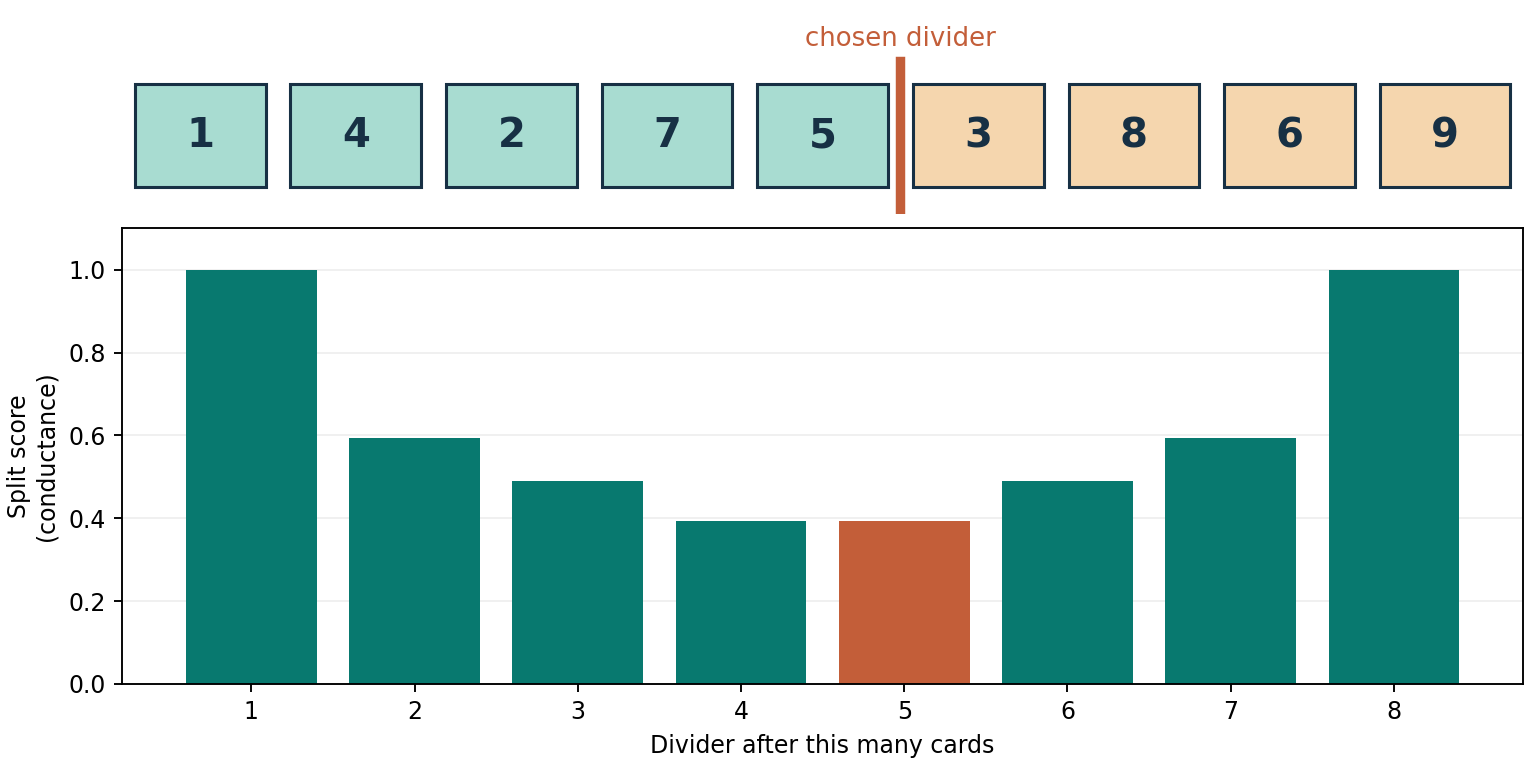
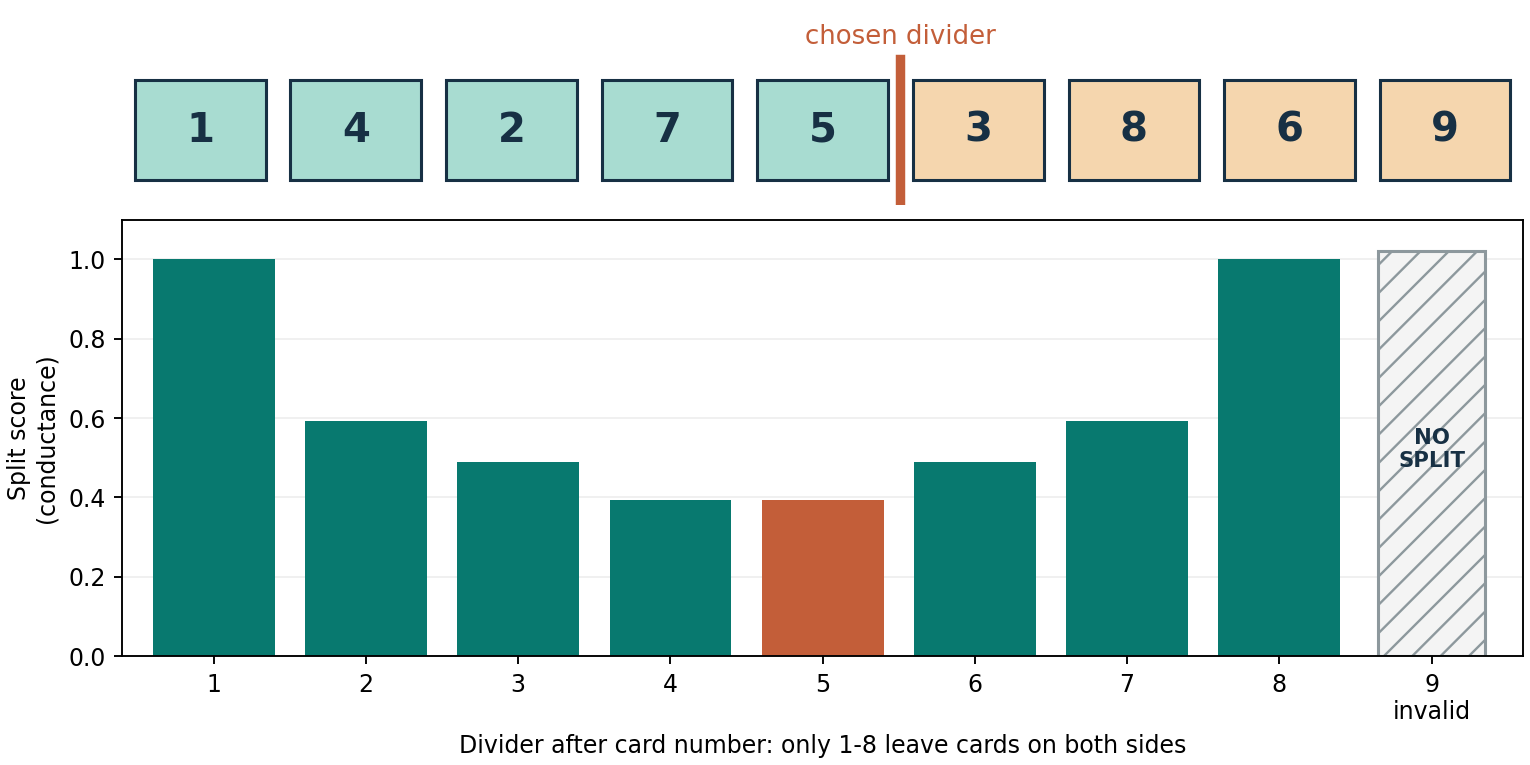
Clarify eight valid sweep splits for nine cells

diff --git a/scripts/build_experiment_checkpoints_guide.py b/scripts/build_experiment_checkpoints_guide.py
@@ -278,10 +278,15 @@ def sweep_chart(path: Path, row: dict):
     bars = fig.add_subplot(grid[1])
     bars.bar(range(1, 9), scores,
              color=[ORANGE if stop == 5 else TEAL for stop in range(1, 9)])
-    bars.set_xticks(range(1, 9))
-    bars.set_xlabel("Divider after this many cards")
+    bars.add_patch(Rectangle((8.65, 0), .7, 1.02, facecolor="#f4f4f4",
+                             edgecolor="#8d989d", hatch="//", linewidth=1.3))
+    bars.text(9, .52, "NO\nSPLIT", ha="center", va="center",
+              fontsize=9, fontweight="bold", color=NAVY)
+    bars.set_xticks(range(1, 10), [str(n) for n in range(1, 9)] + ["9\ninvalid"])
+    bars.set_xlabel("Divider after card number: only 1-8 leave cards on both sides")
     bars.set_ylabel("Split score\n(conductance)")
     bars.set_ylim(0, 1.1)
+    bars.set_xlim(.4, 9.6)
     bars.grid(axis="y", alpha=.2)
     bars.set_axisbelow(True)
     fig.savefig(path, dpi=170, facecolor="white")
@@ -563,15 +568,17 @@ def build_pdf(rows: list[dict]):
     y = label(pdf, "How does it work?", y) - 8
     y = body(pdf, "The graph's link strengths give the cells an order. For the smooth grid "
              "at alpha 3 it is 1, 4, 2, 7, 5, 3, 8, 6, 9, not coldest to hottest. "
-             "Imagine sliding a divider through this row, stopping after each card. "
+             "Imagine sliding a divider through this row, stopping after each of "
+             "the first eight cards. "
              "Score the split at each stop and keep the lowest score. That is the sweep.", y) - 7
     y = image(pdf, ASSETS / "sweep.png", y, 516, 225) - 9
     y = box(pdf, "<b>What happened here?</b> At alpha 3, the chosen divider is after "
             "five cards: {1, 4, 2, 7, 5} versus {3, 8, 6, 9}. Its score is 0.3927. "
             "Stops 4 and 5 look tied when rounded; full precision picks stop 5.", y, 69) - 12
-    y = box(pdf, "<b>Why check it?</b> The sweep tries eight splits in this one order. "
-        "There are 255 distinct splits altogether, so the sweep is a quick proposal, "
-        "not proof of the best possible split. The exact check appears later.", y, 66)
+    y = box(pdf, "<b>Why eight scored bars for nine cards?</b> A split needs cards on "
+        "both sides. Before card 1 or after card 9, one side would be empty. The "
+        "outlined ninth position has no score. The sweep checks only 8 of 255 "
+        "possible splits, making its answer a quick proposal.", y, 66)
     assert y > 58, f"Sweep explanation overlaps footer: y={y}"
     pdf.showPage()
 
